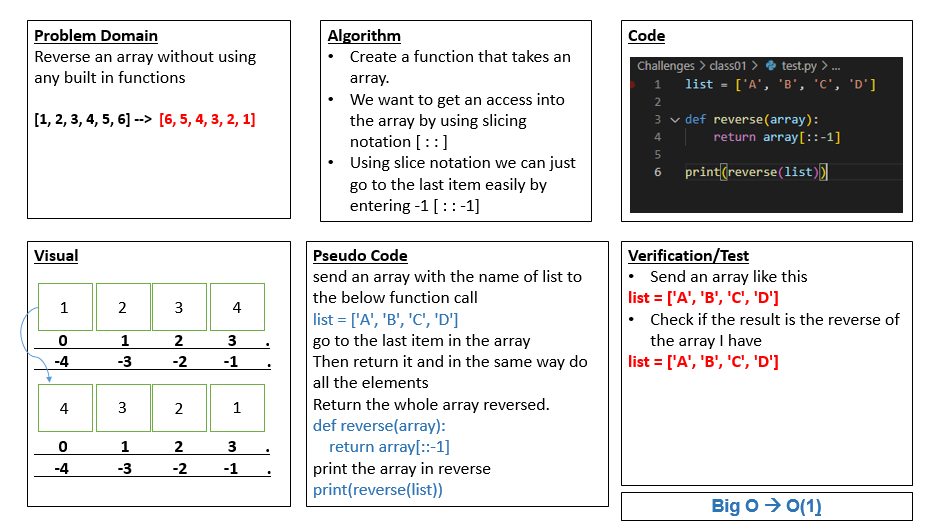
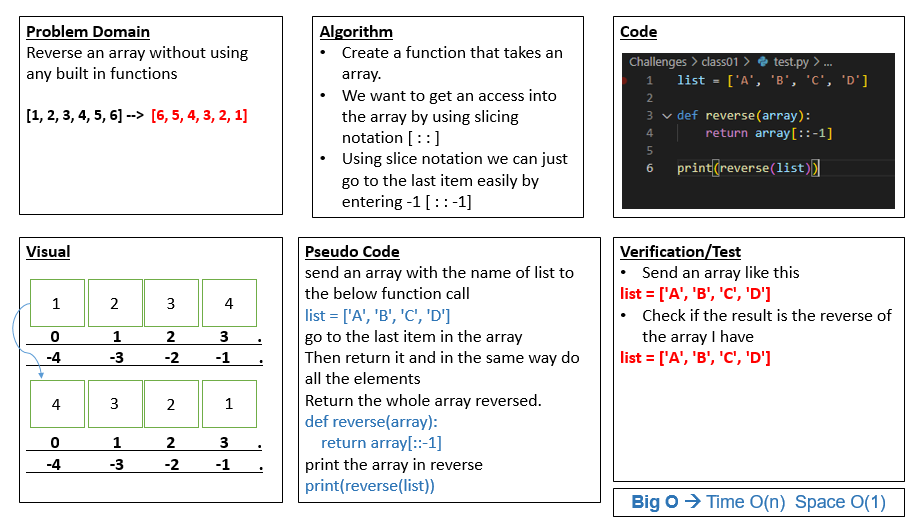
add reverse function

Changed region(s): [[0.0, 0.0304, 0.976, 0.9734], [0.0, 0.0304, 0.305, 0.3954]]

diff --git a/Challenges/class01/README.md b/Challenges/class01/README.md
@@ -13,5 +13,5 @@ Without utilizing any of the built-in methods available to your language, return
 * Using slice notation we can just go to the last item easily by entering -1 [ : : -1]
 
 ### What is the Big O space/time for this approach? 
-     Big O ==> O(1)
-> **why? there is no loops in the code :)**
+     Big O --> Time O(n)  Space O(1)
+
